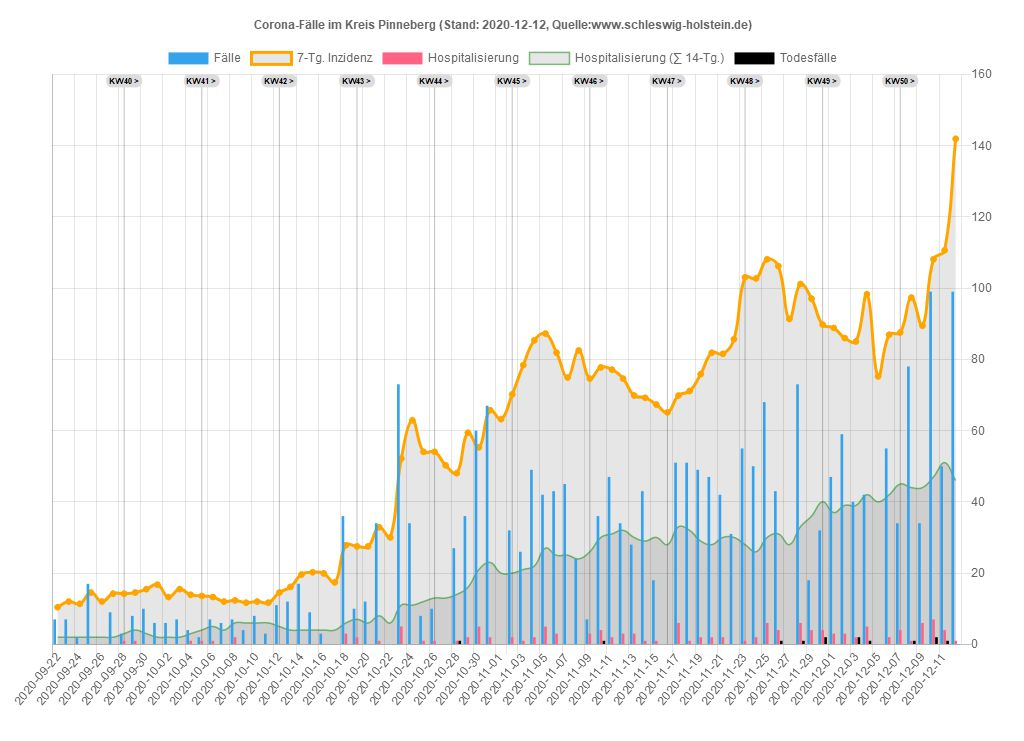
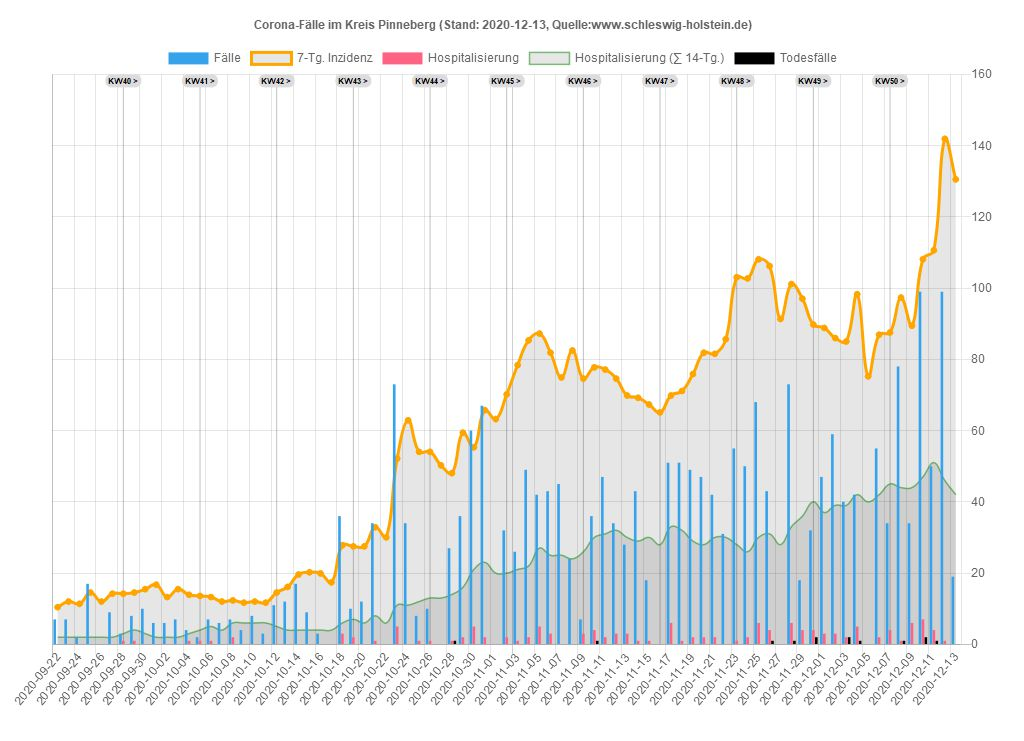
13.12.2020 21:20:44,77

Changed region(s): [[0.0625, 0.0931, 0.9375, 0.9622], [0.25, 0.0931, 0.2812, 0.1242]]

diff --git a/sh/Data_SH.js b/sh/Data_SH.js
@@ -1,33 +1,33 @@
 var chdata={
-labels: ["2020-09-22","2020-09-23","2020-09-24","2020-09-25","2020-09-26","2020-09-27","2020-09-28","2020-09-29","2020-09-30","2020-10-01","2020-10-02","2020-10-03","2020-10-04","2020-10-05","2020-10-06","2020-10-07","2020-10-08","2020-10-09","2020-10-10","2020-10-11","2020-10-12","2020-10-13","2020-10-14","2020-10-15","2020-10-16","2020-10-17","2020-10-18","2020-10-19","2020-10-20","2020-10-21","2020-10-22","2020-10-23","2020-10-24","2020-10-25","2020-10-26","2020-10-27","2020-10-28","2020-10-29","2020-10-30","2020-10-31","2020-11-01","2020-11-02","2020-11-03","2020-11-04","2020-11-05","2020-11-06","2020-11-07","2020-11-08","2020-11-09","2020-11-10","2020-11-11","2020-11-12","2020-11-13","2020-11-14","2020-11-15","2020-11-16","2020-11-17","2020-11-18","2020-11-19","2020-11-20","2020-11-21","2020-11-22","2020-11-23","2020-11-24","2020-11-25","2020-11-26","2020-11-27","2020-11-28","2020-11-29","2020-11-30","2020-12-01","2020-12-02","2020-12-03","2020-12-04","2020-12-05","2020-12-06","2020-12-07","2020-12-08","2020-12-09","2020-12-10","2020-12-11","2020-12-12"],
+labels: ["2020-09-22","2020-09-23","2020-09-24","2020-09-25","2020-09-26","2020-09-27","2020-09-28","2020-09-29","2020-09-30","2020-10-01","2020-10-02","2020-10-03","2020-10-04","2020-10-05","2020-10-06","2020-10-07","2020-10-08","2020-10-09","2020-10-10","2020-10-11","2020-10-12","2020-10-13","2020-10-14","2020-10-15","2020-10-16","2020-10-17","2020-10-18","2020-10-19","2020-10-20","2020-10-21","2020-10-22","2020-10-23","2020-10-24","2020-10-25","2020-10-26","2020-10-27","2020-10-28","2020-10-29","2020-10-30","2020-10-31","2020-11-01","2020-11-02","2020-11-03","2020-11-04","2020-11-05","2020-11-06","2020-11-07","2020-11-08","2020-11-09","2020-11-10","2020-11-11","2020-11-12","2020-11-13","2020-11-14","2020-11-15","2020-11-16","2020-11-17","2020-11-18","2020-11-19","2020-11-20","2020-11-21","2020-11-22","2020-11-23","2020-11-24","2020-11-25","2020-11-26","2020-11-27","2020-11-28","2020-11-29","2020-11-30","2020-12-01","2020-12-02","2020-12-03","2020-12-04","2020-12-05","2020-12-06","2020-12-07","2020-12-08","2020-12-09","2020-12-10","2020-12-11","2020-12-12","2020-12-13"],
 datasets: [
 {label: 'Fälle',
 type: 'bar',
 backgroundColor: window.chartColors.blue,
-data: [38,42,63,53,15,15,38,48,49,27,50,16,24,39,54,45,79,54,26,25,65,65,65,55,90,26,88,163,111,160,136,236,142,115,164,164,280,215,313,265,161,142,236,262,220,274,233,177,215,252,247,192,296,158,161,100,294,208,264,250,153,121,145,251,256,225,180,219,71,81,244,240,245,318,234,154,183,314,297,529,384,472]},
+data: [38,42,63,53,15,15,38,48,49,27,50,16,24,39,54,45,79,54,26,25,65,65,65,55,90,26,88,163,111,160,136,236,142,115,164,164,280,215,313,265,161,142,236,262,220,274,233,177,215,252,247,192,296,158,161,100,294,208,264,250,153,121,145,251,256,225,180,219,71,81,244,240,245,318,234,154,183,314,297,529,384,472,140]},
 {label: '7-Tg. Inzidenz',
 type: 'line',
 pointBackgroundColor: 'orange',
 borderColor: 'orange',
-data: [7.23197027,7.88629139,8.74724023,9.40156135,9.33268544,9.16049567,9.09161977,9.4359993,9.67706498,8.43729865,8.33398478,8.36842274,8.67836432,8.71280227,8.91943,8.78167818,10.5724518,10.7102036,11.0545831,11.0890211,11.9844079,12.3632254,13.0519844,12.2254735,13.4652399,13.4652399,15.634831,19.0097504,20.5938963,23.8655019,26.6549761,31.6829174,35.67772,36.6075447,36.6419827,38.4671942,42.5997487,45.320347,47.9720694,52.2079377,53.7920836,53.0344486,55.5139813,54.8940981,55.0662879,53.7232077,52.6211932,53.1722004,55.6861711,56.2371783,55.720609,54.7563463,55.5139813,52.9311348,52.3801275,48.4197628,49.8661569,48.5230767,51.0026094,49.4184635,49.2462737,47.8687556,49.4184635,47.9376315,49.5906533,48.2475731,45.8369163,48.1098213,46.3879236,44.1838945,43.9428289,43.3918216,44.0805807,48.8330183,49.3495876,52.2079377,55.720609,58.1312658,60.0942291,69.874608,72.1475129,80.3437459]},
+data: [7.23197027,7.88629139,8.74724023,9.40156135,9.33268544,9.16049567,9.09161977,9.4359993,9.67706498,8.43729865,8.33398478,8.36842274,8.67836432,8.71280227,8.91943,8.78167818,10.5724518,10.7102036,11.0545831,11.0890211,11.9844079,12.3632254,13.0519844,12.2254735,13.4652399,13.4652399,15.634831,19.0097504,20.5938963,23.8655019,26.6549761,31.6829174,35.67772,36.6075447,36.6419827,38.4671942,42.5997487,45.320347,47.9720694,52.2079377,53.7920836,53.0344486,55.5139813,54.8940981,55.0662879,53.7232077,52.6211932,53.1722004,55.6861711,56.2371783,55.720609,54.7563463,55.5139813,52.9311348,52.3801275,48.4197628,49.8661569,48.5230767,51.0026094,49.4184635,49.2462737,47.8687556,49.4184635,47.9376315,49.5906533,48.2475731,45.8369163,48.1098213,46.3879236,44.1838945,43.9428289,43.3918216,44.0805807,48.8330183,49.3495876,52.2079377,55.720609,58.1312658,60.0942291,69.874608,72.1475129,80.3437459,79.8616145]},
 {label: 'Hospitalisierung',
 type: 'bar',
 backgroundColor: window.chartColors.red,
-data: [1,2,7,1,0,0,2,1,3,1,1,0,4,3,1,1,4,2,0,3,5,1,1,2,4,0,9,10,8,9,12,7,5,6,7,7,11,10,11,6,3,9,19,20,15,15,5,7,13,15,21,13,17,8,17,13,23,10,15,9,7,7,13,16,26,19,12,14,15,10,12,8,10,14,3,5,24,13,26,20,14,12]},
+data: [1,2,7,1,0,0,2,1,3,1,1,0,4,3,1,1,4,2,0,3,5,1,1,2,4,0,9,10,8,9,12,7,5,6,7,7,11,10,11,6,3,9,19,20,15,15,5,7,13,15,21,13,17,8,17,13,23,10,15,9,7,7,13,16,26,19,12,14,15,10,12,8,10,14,3,5,24,13,26,20,14,12,6]},
 {label: 'Hosp. (∑ 14-Tg.)',
 type: 'line',
 borderColor: 'rgba(0,255,0,0.5)',
 borderWidth: 1.5,
 pointRadius: 0,
-data: [12,12,20,22,22,22,22,23,23,21,22,21,24,26,26,25,22,23,23,26,29,29,27,28,31,31,36,43,50,58,66,71,76,79,81,87,97,105,112,118,112,111,122,133,136,144,144,145,151,159,169,172,178,180,194,198,202,192,192,186,188,188,188,189,194,200,195,201,199,196,185,183,178,183,179,177,188,185,185,186,188,186]},
+data: [12,12,20,22,22,22,22,23,23,21,22,21,24,26,26,25,22,23,23,26,29,29,27,28,31,31,36,43,50,58,66,71,76,79,81,87,97,105,112,118,112,111,122,133,136,144,144,145,151,159,169,172,178,180,194,198,202,192,192,186,188,188,188,189,194,200,195,201,199,196,185,183,178,183,179,177,188,185,185,186,188,186,177]},
 {label: 'Aktuell im Krankenhaus',
 type: 'line',
 pointBackgroundColor: 'green',
 borderColor: 'green',
-data: [6,6,6,6,6,6,6,11,11,11,11,14,14,15,15,14,14,14,13,13,18,18,18,21,24,24,24,24,31,31,31,31,51,51,58,58,58,58,58,58,58,94,110,114,119,118,124,120,126,116,113,119,112,116,116,148,145,151,141,141,141,141,155,142,122,113,118,118,118,124,114,110,109,114,114,114,131,122,128,132,133,133]},
+data: [6,6,6,6,6,6,6,11,11,11,11,14,14,15,15,14,14,14,13,13,18,18,18,21,24,24,24,24,31,31,31,31,51,51,58,58,58,58,58,58,58,94,110,114,119,118,124,120,126,116,113,119,112,116,116,148,145,151,141,141,141,141,155,142,122,113,118,118,118,124,114,110,109,114,114,114,131,122,128,132,133,133,133]},
 {label: 'Todesfälle',
 type: 'bar',
 backgroundColor: 'black',
-data: [0,0,0,0,0,0,0,1,0,0,0,0,0,0,0,0,0,0,0,0,0,1,0,0,0,0,0,0,0,0,1,0,0,3,0,0,3,4,1,0,2,6,7,2,2,6,0,1,4,3,5,0,5,1,3,5,0,2,2,2,1,0,3,4,1,3,3,1,4,2,3,1,4,1,0,1,4,2,5,7,7,1]},
+data: [0,0,0,0,0,0,0,1,0,0,0,0,0,0,0,0,0,0,0,0,0,1,0,0,0,0,0,0,0,0,1,0,0,3,0,0,3,4,1,0,2,6,7,2,2,6,0,1,4,3,5,0,5,1,3,5,0,2,2,2,1,0,3,4,1,3,3,1,4,2,3,1,4,1,0,1,4,2,5,7,7,1,2]},
 ]};
 

diff --git a/sh/Data_SH_Alter.js b/sh/Data_SH_Alter.js
@@ -92,7 +92,8 @@ var chdata={
 				{x: '2020-12-09', y: 'Alle', v: 59.5087839, casesum: 1728},{x: '2020-12-09', y: '00-09', v: 30.7725867, casesum: 79},{x: '2020-12-09', y: '10-19', v: 79.3458137, casesum: 219},{x: '2020-12-09', y: '20-29', v: 80.0095011, casesum: 256},{x: '2020-12-09', y: '30-39', v: 79.7407829, casesum: 268},{x: '2020-12-09', y: '40-49', v: 63.8346767, casesum: 225},{x: '2020-12-09', y: '50-59', v: 56.5198698, casesum: 280},{x: '2020-12-09', y: '60-69', v: 36.3106209, casesum: 132},{x: '2020-12-09', y: '70-79', v: 30.0745782, casesum: 89},{x: '2020-12-09', y: '80-89', v: 63.743416, casesum: 114},{x: '2020-12-09', y: '90+', v: 229.039423, casesum: 66},
 				{x: '2020-12-10', y: 'Alle', v: 69.082535, casesum: 2006},{x: '2020-12-10', y: '00-09', v: 38.1735886, casesum: 98},{x: '2020-12-10', y: '10-19', v: 88.7658646, casesum: 245},{x: '2020-12-10', y: '20-29', v: 91.5733743, casesum: 293},{x: '2020-12-10', y: '30-39', v: 86.8817486, casesum: 292},{x: '2020-12-10', y: '40-49', v: 74.048225, casesum: 261},{x: '2020-12-10', y: '50-59', v: 65.1997069, casesum: 323},{x: '2020-12-10', y: '60-69', v: 43.7377933, casesum: 159},{x: '2020-12-10', y: '70-79', v: 33.7916609, casesum: 100},{x: '2020-12-10', y: '80-89', v: 85.5503741, casesum: 153},{x: '2020-12-10', y: '90+', v: 284.564131, casesum: 82},
 				{x: '2020-12-11', y: 'Alle', v: 71.1488123, casesum: 2066},{x: '2020-12-11', y: '00-09', v: 40.510747, casesum: 104},{x: '2020-12-11', y: '10-19', v: 86.5920067, casesum: 239},{x: '2020-12-11', y: '20-29', v: 94.0736712, casesum: 301},{x: '2020-12-11', y: '30-39', v: 86.5842083, casesum: 291},{x: '2020-12-11', y: '40-49', v: 76.0341927, casesum: 268},{x: '2020-12-11', y: '50-59', v: 70.2461238, casesum: 348},{x: '2020-12-11', y: '60-69', v: 44.8381151, casesum: 163},{x: '2020-12-11', y: '70-79', v: 35.8191605, casesum: 106},{x: '2020-12-11', y: '80-89', v: 90.582749, casesum: 162},{x: '2020-12-11', y: '90+', v: 291.50472, casesum: 84},
-				{x: '2020-12-12', y: 'Alle', v: 79.9304904, casesum: 2321},{x: '2020-12-12', y: '00-09', v: 48.6908017, casesum: 125},{x: '2020-12-12', y: '10-19', v: 103.258251, casesum: 285},{x: '2020-12-12', y: '20-29', v: 108.450378, casesum: 347},{x: '2020-12-12', y: '30-39', v: 95.8079556, casesum: 322},{x: '2020-12-12', y: '40-49', v: 87.949999, casesum: 310},{x: '2020-12-12', y: '50-59', v: 76.5036809, casesum: 379},{x: '2020-12-12', y: '60-69', v: 47.5889198, casesum: 173},{x: '2020-12-12', y: '70-79', v: 37.8466602, casesum: 112},{x: '2020-12-12', y: '80-89', v: 100.088346, casesum: 179},{x: '2020-12-12', y: '90+', v: 308.856191, casesum: 89}
+				{x: '2020-12-12', y: 'Alle', v: 79.9304904, casesum: 2321},{x: '2020-12-12', y: '00-09', v: 48.6908017, casesum: 125},{x: '2020-12-12', y: '10-19', v: 103.258251, casesum: 285},{x: '2020-12-12', y: '20-29', v: 108.450378, casesum: 347},{x: '2020-12-12', y: '30-39', v: 95.8079556, casesum: 322},{x: '2020-12-12', y: '40-49', v: 87.949999, casesum: 310},{x: '2020-12-12', y: '50-59', v: 76.5036809, casesum: 379},{x: '2020-12-12', y: '60-69', v: 47.5889198, casesum: 173},{x: '2020-12-12', y: '70-79', v: 37.8466602, casesum: 112},{x: '2020-12-12', y: '80-89', v: 100.088346, casesum: 179},{x: '2020-12-12', y: '90+', v: 308.856191, casesum: 89},
+				{x: '2020-12-13', y: 'Alle', v: 79.5861109, casesum: 2311},{x: '2020-12-13', y: '00-09', v: 47.5222225, casesum: 122},{x: '2020-12-13', y: '10-19', v: 99.6351542, casesum: 275},{x: '2020-12-13', y: '20-29', v: 111.57575, casesum: 357},{x: '2020-12-13', y: '30-39', v: 96.1054959, casesum: 323},{x: '2020-12-13', y: '40-49', v: 89.6522571, casesum: 316},{x: '2020-12-13', y: '50-59', v: 76.3018242, casesum: 378},{x: '2020-12-13', y: '60-69', v: 45.3882761, casesum: 165},{x: '2020-12-13', y: '70-79', v: 37.8466602, casesum: 112},{x: '2020-12-13', y: '80-89', v: 97.2925823, casesum: 174},{x: '2020-12-13', y: '90+', v: 308.856191, casesum: 89}
 			],
 			backgroundColor: function(context) {
 				return inzColor(context.dataset.data[context.dataIndex].v)
@@ -100,7 +101,7 @@ var chdata={
 			width: function(context) {
 				const a = context.chart.chartArea
 				if (!a) return 0
-				return (a.right - a.left) / 89.5
+				return (a.right - a.left) / 90.5
 			},
 			height: function(context) {
 				const a = context.chart.chartArea
@@ -112,7 +113,7 @@ var chdata={
 	options: {
 		legend: { display: false },
 		scales: {
-			xAxes: [{type: 'category', labels: ["2020-09-15","2020-09-16","2020-09-17","2020-09-18","2020-09-19","2020-09-20","2020-09-21","2020-09-22","2020-09-23","2020-09-24","2020-09-25","2020-09-26","2020-09-27","2020-09-28","2020-09-29","2020-09-30","2020-10-01","2020-10-02","2020-10-03","2020-10-04","2020-10-05","2020-10-06","2020-10-07","2020-10-08","2020-10-09","2020-10-10","2020-10-11","2020-10-12","2020-10-13","2020-10-14","2020-10-15","2020-10-16","2020-10-17","2020-10-18","2020-10-19","2020-10-20","2020-10-21","2020-10-22","2020-10-23","2020-10-24","2020-10-25","2020-10-26","2020-10-27","2020-10-28","2020-10-29","2020-10-30","2020-10-31","2020-11-01","2020-11-02","2020-11-03","2020-11-04","2020-11-05","2020-11-06","2020-11-07","2020-11-08","2020-11-09","2020-11-10","2020-11-11","2020-11-12","2020-11-13","2020-11-14","2020-11-15","2020-11-16","2020-11-17","2020-11-18","2020-11-19","2020-11-20","2020-11-21","2020-11-22","2020-11-23","2020-11-24","2020-11-25","2020-11-26","2020-11-27","2020-11-28","2020-11-29","2020-11-30","2020-12-01","2020-12-02","2020-12-03","2020-12-04","2020-12-05","2020-12-06","2020-12-07","2020-12-08","2020-12-09","2020-12-10","2020-12-11","2020-12-12",], ticks: {display: true},gridlines:{display:false}}],
+			xAxes: [{type: 'category', labels: ["2020-09-15","2020-09-16","2020-09-17","2020-09-18","2020-09-19","2020-09-20","2020-09-21","2020-09-22","2020-09-23","2020-09-24","2020-09-25","2020-09-26","2020-09-27","2020-09-28","2020-09-29","2020-09-30","2020-10-01","2020-10-02","2020-10-03","2020-10-04","2020-10-05","2020-10-06","2020-10-07","2020-10-08","2020-10-09","2020-10-10","2020-10-11","2020-10-12","2020-10-13","2020-10-14","2020-10-15","2020-10-16","2020-10-17","2020-10-18","2020-10-19","2020-10-20","2020-10-21","2020-10-22","2020-10-23","2020-10-24","2020-10-25","2020-10-26","2020-10-27","2020-10-28","2020-10-29","2020-10-30","2020-10-31","2020-11-01","2020-11-02","2020-11-03","2020-11-04","2020-11-05","2020-11-06","2020-11-07","2020-11-08","2020-11-09","2020-11-10","2020-11-11","2020-11-12","2020-11-13","2020-11-14","2020-11-15","2020-11-16","2020-11-17","2020-11-18","2020-11-19","2020-11-20","2020-11-21","2020-11-22","2020-11-23","2020-11-24","2020-11-25","2020-11-26","2020-11-27","2020-11-28","2020-11-29","2020-11-30","2020-12-01","2020-12-02","2020-12-03","2020-12-04","2020-12-05","2020-12-06","2020-12-07","2020-12-08","2020-12-09","2020-12-10","2020-12-11","2020-12-12","2020-12-13",], ticks: {display: true},gridlines:{display:false}}],
 			yAxes: [{type: 'category', labels: ["Alle","00-09","10-19","20-29","30-39","40-49","50-59","60-69","70-79","80-89","90+"], offset:true, ticks: {display: true},gridlines:{display:false}}],
 		},
 	}

diff --git a/sh/Kreis_PI.js b/sh/Kreis_PI.js
@@ -1,33 +1,33 @@
 var chdata={
-labels: ["2020-09-22","2020-09-23","2020-09-24","2020-09-25","2020-09-26","2020-09-27","2020-09-28","2020-09-29","2020-09-30","2020-10-01","2020-10-02","2020-10-03","2020-10-04","2020-10-05","2020-10-06","2020-10-07","2020-10-08","2020-10-09","2020-10-10","2020-10-11","2020-10-12","2020-10-13","2020-10-14","2020-10-15","2020-10-16","2020-10-17","2020-10-18","2020-10-19","2020-10-20","2020-10-21","2020-10-22","2020-10-23","2020-10-24","2020-10-25","2020-10-26","2020-10-27","2020-10-28","2020-10-29","2020-10-30","2020-10-31","2020-11-01","2020-11-02","2020-11-03","2020-11-04","2020-11-05","2020-11-06","2020-11-07","2020-11-08","2020-11-09","2020-11-10","2020-11-11","2020-11-12","2020-11-13","2020-11-14","2020-11-15","2020-11-16","2020-11-17","2020-11-18","2020-11-19","2020-11-20","2020-11-21","2020-11-22","2020-11-23","2020-11-24","2020-11-25","2020-11-26","2020-11-27","2020-11-28","2020-11-29","2020-11-30","2020-12-01","2020-12-02","2020-12-03","2020-12-04","2020-12-05","2020-12-06","2020-12-07","2020-12-08","2020-12-09","2020-12-10","2020-12-11","2020-12-12"],
+labels: ["2020-09-22","2020-09-23","2020-09-24","2020-09-25","2020-09-26","2020-09-27","2020-09-28","2020-09-29","2020-09-30","2020-10-01","2020-10-02","2020-10-03","2020-10-04","2020-10-05","2020-10-06","2020-10-07","2020-10-08","2020-10-09","2020-10-10","2020-10-11","2020-10-12","2020-10-13","2020-10-14","2020-10-15","2020-10-16","2020-10-17","2020-10-18","2020-10-19","2020-10-20","2020-10-21","2020-10-22","2020-10-23","2020-10-24","2020-10-25","2020-10-26","2020-10-27","2020-10-28","2020-10-29","2020-10-30","2020-10-31","2020-11-01","2020-11-02","2020-11-03","2020-11-04","2020-11-05","2020-11-06","2020-11-07","2020-11-08","2020-11-09","2020-11-10","2020-11-11","2020-11-12","2020-11-13","2020-11-14","2020-11-15","2020-11-16","2020-11-17","2020-11-18","2020-11-19","2020-11-20","2020-11-21","2020-11-22","2020-11-23","2020-11-24","2020-11-25","2020-11-26","2020-11-27","2020-11-28","2020-11-29","2020-11-30","2020-12-01","2020-12-02","2020-12-03","2020-12-04","2020-12-05","2020-12-06","2020-12-07","2020-12-08","2020-12-09","2020-12-10","2020-12-11","2020-12-12","2020-12-13"],
 datasets: [
 {label: 'Fälle',
 type: 'bar',
 backgroundColor: window.chartColors.blue,
 yAxisID: 'first-y-axis',
-data: [7,7,2,17,0,9,3,8,10,6,6,7,4,2,7,6,7,4,8,3,11,12,17,9,3,0,36,10,12,34,0,73,34,8,10,0,27,36,60,67,0,32,26,49,42,43,45,24,7,36,47,34,28,43,18,0,51,51,49,47,42,31,55,50,68,43,0,73,18,32,47,59,40,42,0,55,34,78,34,99,50,99]},
+data: [7,7,2,17,0,9,3,8,10,6,6,7,4,2,7,6,7,4,8,3,11,12,17,9,3,0,36,10,12,34,0,73,34,8,10,0,27,36,60,67,0,32,26,49,42,43,45,24,7,36,47,34,28,43,18,0,51,51,49,47,42,31,55,50,68,43,0,73,18,32,47,59,40,42,0,55,34,78,34,99,50,99,19]},
 {label: '7-Tg. Inzidenz',
 type: 'line',
 pointBackgroundColor: 'orange',
 borderColor: 'orange',
 yAxisID: 'first-y-axis',
-data: [10.4300994,12.0104175,11.3782902,14.5389264,12.0104175,14.2228628,14.2228628,14.5389264,15.4871172,16.7513717,13.2746719,15.4871172,13.9067992,13.5907355,13.2746719,12.0104175,12.3264811,11.6943538,12.0104175,11.6943538,14.5389264,16.1192445,19.5959443,20.2280715,19.9120079,17.383499,27.8135983,27.4975347,27.4975347,32.8706162,30.0260436,52.1504969,62.8966598,54.0468786,54.0468786,50.2541151,48.0416698,59.41996,55.311133,65.7412324,63.2127235,70.166123,78.3837771,85.3371767,87.2335584,81.8604769,74.9070773,82.4926041,74.5910137,77.7516499,77.1195226,74.5910137,69.8500594,69.2179322,67.3215505,65.1091052,69.8500594,71.1143139,75.8552681,81.8604769,81.5444133,85.6532403,103.036739,102.720676,108.093757,106.197375,91.3423854,101.140358,97.0315305,89.7620673,88.8138765,85.9693039,85.021113,98.295785,75.2231409,86.9174948,87.549622,97.3475941,89.4460037,108.093757,110.622266,141.912564]},
+data: [10.4300994,12.0104175,11.3782902,14.5389264,12.0104175,14.2228628,14.2228628,14.5389264,15.4871172,16.7513717,13.2746719,15.4871172,13.9067992,13.5907355,13.2746719,12.0104175,12.3264811,11.6943538,12.0104175,11.6943538,14.5389264,16.1192445,19.5959443,20.2280715,19.9120079,17.383499,27.8135983,27.4975347,27.4975347,32.8706162,30.0260436,52.1504969,62.8966598,54.0468786,54.0468786,50.2541151,48.0416698,59.41996,55.311133,65.7412324,63.2127235,70.166123,78.3837771,85.3371767,87.2335584,81.8604769,74.9070773,82.4926041,74.5910137,77.7516499,77.1195226,74.5910137,69.8500594,69.2179322,67.3215505,65.1091052,69.8500594,71.1143139,75.8552681,81.8604769,81.5444133,85.6532403,103.036739,102.720676,108.093757,106.197375,91.3423854,101.140358,97.0315305,89.7620673,88.8138765,85.9693039,85.021113,98.295785,75.2231409,86.9174948,87.549622,97.3475941,89.4460037,108.093757,110.622266,141.912564,130.534274]},
 {label: 'Hospitalisierung',
 type: 'bar',
 backgroundColor: window.chartColors.red,
 yAxisID: 'first-y-axis',
-data: [0,0,0,0,0,0,1,1,0,0,0,0,1,1,1,-1,2,0,0,0,0,0,0,0,0,0,3,2,0,1,0,5,0,1,1,0,1,2,5,2,0,2,1,2,5,3,0,0,3,4,2,3,3,1,1,0,6,1,2,2,2,0,1,2,6,4,0,6,4,4,3,3,2,5,0,2,4,1,6,7,4,1]},
+data: [0,0,0,0,0,0,1,1,0,0,0,0,1,1,1,-1,2,0,0,0,0,0,0,0,0,0,3,2,0,1,0,5,0,1,1,0,1,2,5,2,0,2,1,2,5,3,0,0,3,4,2,3,3,1,1,0,6,1,2,2,2,0,1,2,6,4,0,6,4,4,3,3,2,5,0,2,4,1,6,7,4,1,0]},
 {label: 'Hospitalisierung (∑ 14-Tg.)',
 type: 'line',
 pointRadius: 0,
 borderColor: 'rgba(0,128,0,0.5)',
 borderWidth: 1.5,
 yAxisID: 'first-y-axis',
-data: [2,2,2,2,2,2,3,4,3,2,2,2,3,4,5,4,6,6,6,6,5,4,4,4,4,4,6,7,6,8,6,11,11,12,13,13,14,16,21,23,20,20,21,22,27,25,25,24,26,30,31,32,30,29,30,28,33,32,29,28,30,30,28,26,30,31,28,33,36,40,37,39,39,42,40,42,45,44,44,47,51,46]},
+data: [2,2,2,2,2,2,3,4,3,2,2,2,3,4,5,4,6,6,6,6,5,4,4,4,4,4,6,7,6,8,6,11,11,12,13,13,14,16,21,23,20,20,21,22,27,25,25,24,26,30,31,32,30,29,30,28,33,32,29,28,30,30,28,26,30,31,28,33,36,40,37,39,39,42,40,42,45,44,44,47,51,46,42]},
 {label: 'Todesfälle',
 type: 'bar',
 backgroundColor: 'black',
 yAxisID: 'first-y-axis',
-data: [0,0,0,0,0,0,0,0,0,0,0,0,0,0,0,0,0,0,0,0,0,0,0,0,0,0,0,0,0,0,0,0,0,0,0,0,1,0,0,0,0,0,0,0,0,0,0,0,0,1,0,0,0,0,0,0,0,0,0,0,0,0,0,0,0,1,0,1,0,2,0,0,2,1,0,0,0,1,0,2,1,0]},
+data: [0,0,0,0,0,0,0,0,0,0,0,0,0,0,0,0,0,0,0,0,0,0,0,0,0,0,0,0,0,0,0,0,0,0,0,0,1,0,0,0,0,0,0,0,0,0,0,0,0,1,0,0,0,0,0,0,0,0,0,0,0,0,0,0,0,1,0,1,0,2,0,0,2,1,0,0,0,1,0,2,1,0,0]},
 ]};
 

diff --git a/sh/index_sh_alter.html b/sh/index_sh_alter.html
@@ -5,7 +5,7 @@
 <meta property="og:image" content="index_sh_alter.jpg" />
 <meta property="og:type" content="website" />
 <meta property="og:locale" content="de_DE" />
-<meta property="og:updated_time" content="2020-12-13T14:18:55+01:00" />
+<meta property="og:updated_time" content="2020-12-13T21:20:44+01:00" />
 <title>Altersverteilung der Corona-Fälle in Schleswig-Holstein</title>
 <link rel="stylesheet" href="../css/style.css" media="screen" type="text/css">
 <link rel="stylesheet" media="screen" href="Chart.min.css"> 

diff --git a/sh/index_pi_alter.html b/sh/index_pi_alter.html
@@ -5,7 +5,7 @@
 <meta property="og:image" content="index_pi_alter.jpg" />
 <meta property="og:type" content="website" />
 <meta property="og:locale" content="de_DE" />
-<meta property="og:updated_time" content="2020-12-13T14:18:55+01:00" />
+<meta property="og:updated_time" content="2020-12-13T21:20:44+01:00" />
 <title>Altersverteilung der Corona-Fälle im Kreis Pinneberg</title>
 <link rel="stylesheet" href="../css/style.css" media="screen" type="text/css">
 <link rel="stylesheet" media="screen" href="Chart.min.css"> 

diff --git a/sh/index.html b/sh/index.html
@@ -5,7 +5,7 @@
 <meta property="og:image" content="index.jpg" />
 <meta property="og:type" content="website" />
 <meta property="og:locale" content="de_DE" />
-<meta property="og:updated_time" content="2020-12-13T14:18:55+01:00" />
+<meta property="og:updated_time" content="2020-12-13T21:20:44+01:00" />
 <title>Corona-Fälle im Kreis Pinneberg</title>
 <link rel="stylesheet" href="../css/style.css" media="screen" type="text/css">
 <link rel="stylesheet" media="screen" href="Chart.min.css"> 
